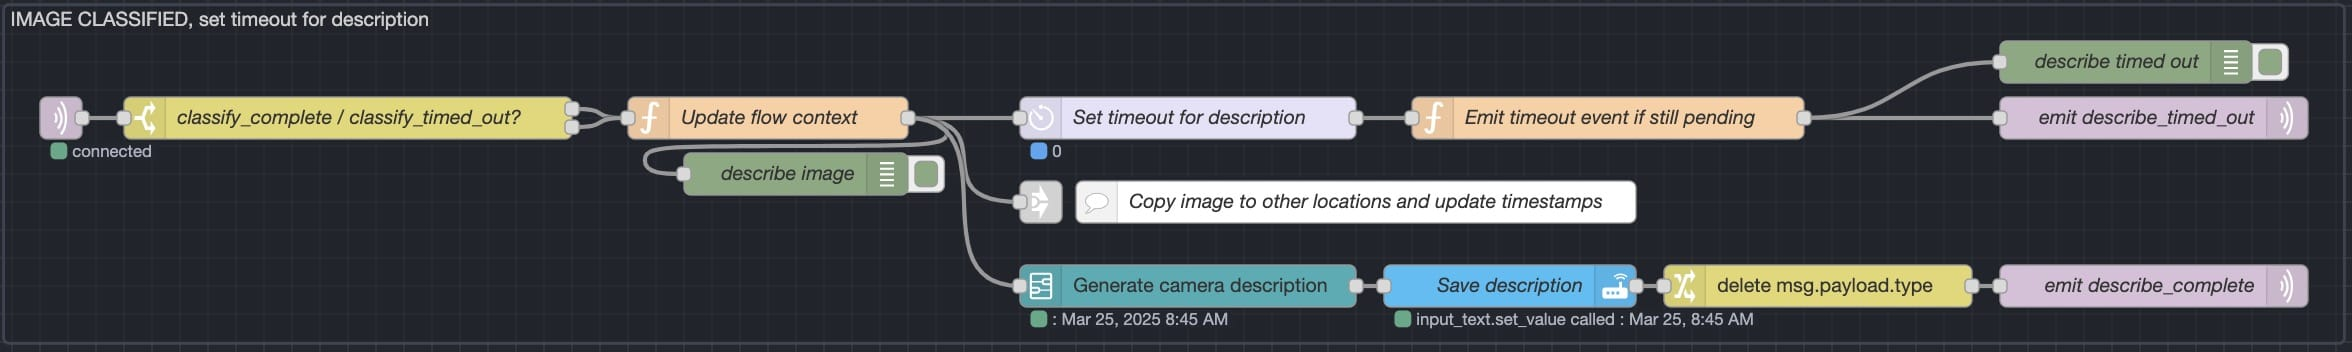
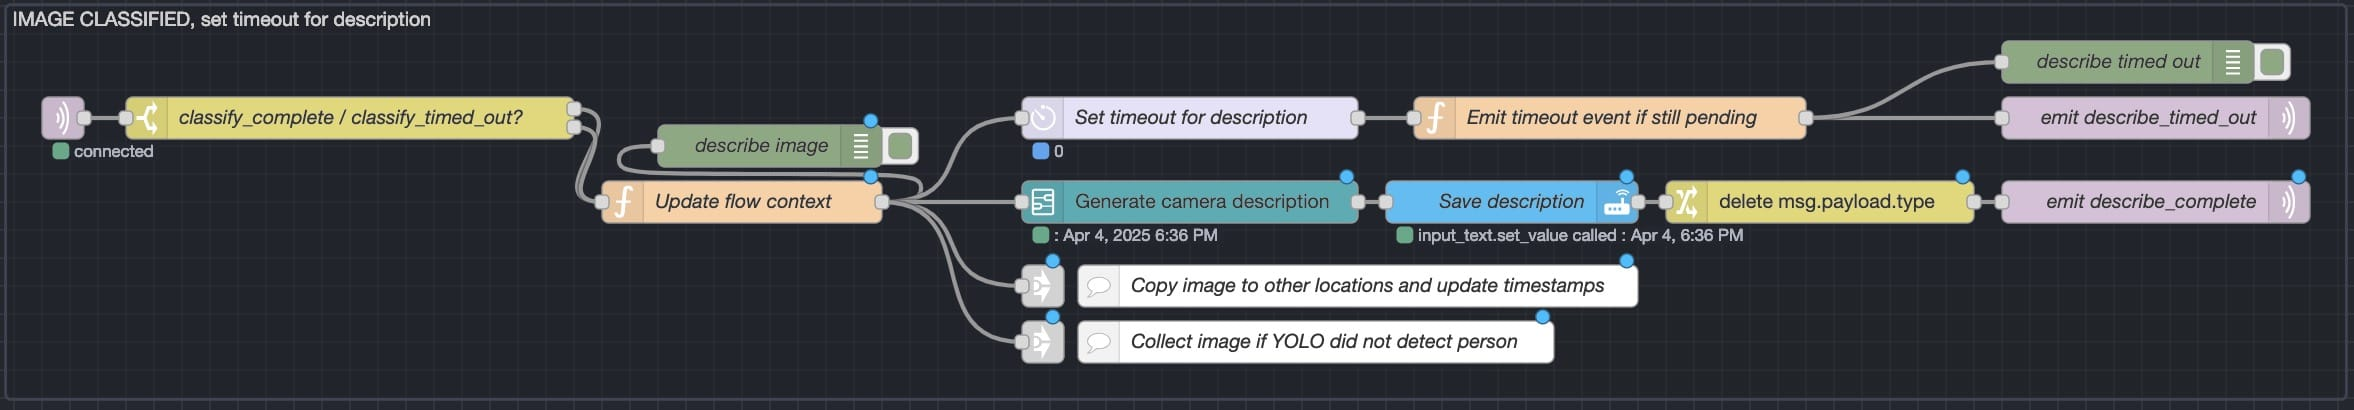
feat: add section on collecting images for iterative training

diff --git a/hugo/content/projects/event-driven-camera-notifications/index.md b/hugo/content/projects/event-driven-camera-notifications/index.md
@@ -72,16 +72,7 @@ tags:
 
 ![Image-downloaded flow section in Node-RED](image-downloaded.jpg)
 
-### 4a. **Event-specific image handling**
-
-- After the image is classified by YOLO, the image is copied into event-specific locations (if applicable)
-- This provides Home Assistant the image entities for last motion, last person, last known person, last vehicle, and last pet, which can be used for notifications and dashboards
-
-{{< figure src="/projects/event-driven-camera-notifications/specific-events.jpg" alt="Image download flow section in Node-RED" caption="Image download flow section in Node-RED" >}}
-
-{{< figure src="/projects/event-driven-camera-notifications/latest-image-dashboard.jpg" alt="Image of latest camera images in Home Assistant" caption="Image of latest camera images in Home Assistant" class="narrow">}}
-
-### 4b. **Image description**
+### 4a. **Image description**
 
 - After the image is classified by YOLO, an `image_classified` event is triggered
 - **If the event is a "known person" event and the person name is set** in the payload, AI is skipped and the description is set to "\[name\] was spotted"
@@ -96,6 +87,19 @@ tags:
 
 {{< figure src="/projects/event-driven-camera-notifications/describe-image.jpg" alt="Generate image description subflow in Node-RED" caption="Generate image description subflow in Node-RED" >}}
 
+### 4b. **Event-specific image handling**
+
+- After the image is classified by YOLO, the image is copied into event-specific locations (if applicable)
+- This provides Home Assistant the image entities for last motion, last person, last known person, last vehicle, and last pet, which can be used for notifications and dashboards
+
+{{< figure src="/projects/event-driven-camera-notifications/specific-events.jpg" alt="Image download flow section in Node-RED" caption="Event-specific image handling flow section in Node-RED" >}}
+
+### 4c. **Collect images for iterative training**
+
+- If the original event was a person but YOLO did not detect a person, collect images for later processing
+- This allows for labelling false negatives (cases where a person was in the image) for future iterative training
+
+{{< figure src="/projects/event-driven-camera-notifications/collect-images.jpg" alt="Node-RED flow to collect images for iterative training" caption="Node-RED flow to collect images for iterative training">}}
 
 ### 5. **Describe complete & check for police**
 
